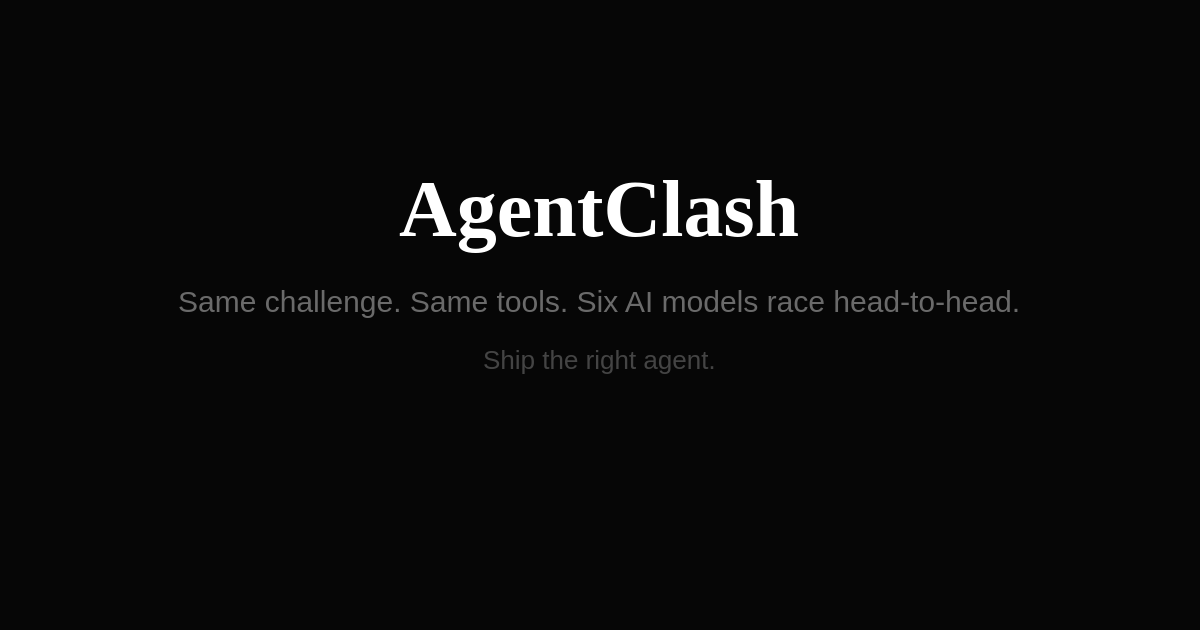
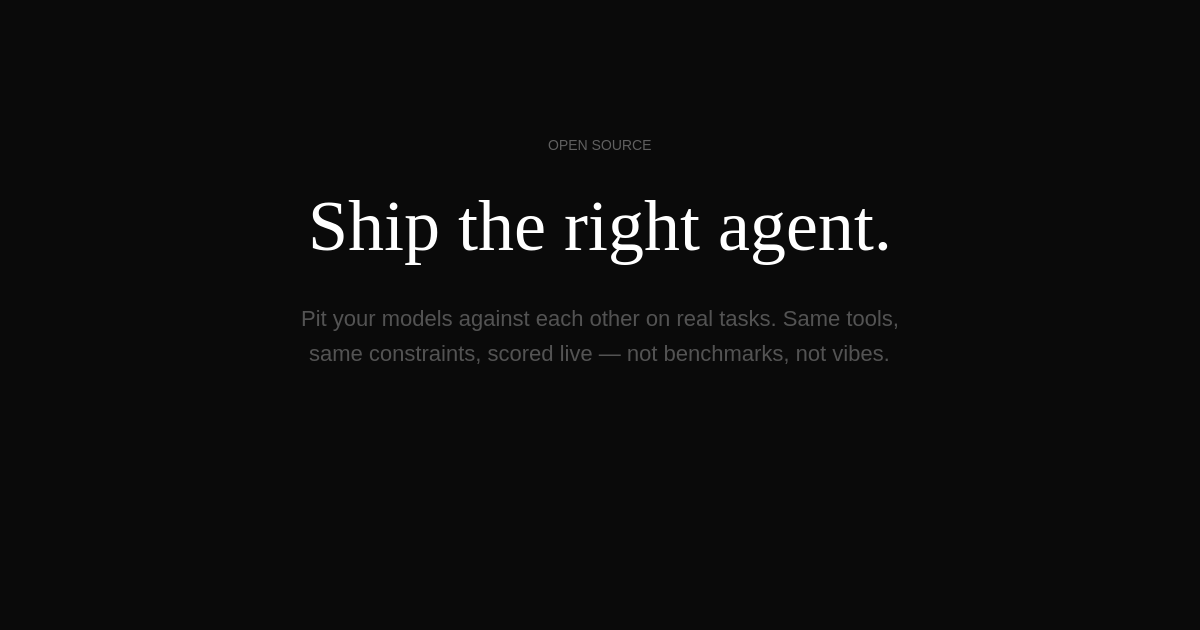
Fix OG images and simplify title to AgentClash

Changed region(s): [[0.1542, 0.4524, 0.8325, 0.6032], [0.2467, 0.2714, 0.74, 0.4222], [0.4625, 0.2111, 0.555, 0.2413]]

diff --git a/web/src/app/layout.tsx b/web/src/app/layout.tsx
@@ -24,10 +24,7 @@ const siteUrl = "https://agentclash.dev";
 
 export const metadata: Metadata = {
   metadataBase: new URL(siteUrl),
-  title: {
-    default: "AgentClash — Ship the right agent",
-    template: "%s | AgentClash",
-  },
+  title: "AgentClash",
   description:
     "Pit AI models against each other on real tasks. Same challenge, same tools, scored live on completion, speed, token efficiency, and tool strategy.",
   keywords: [
